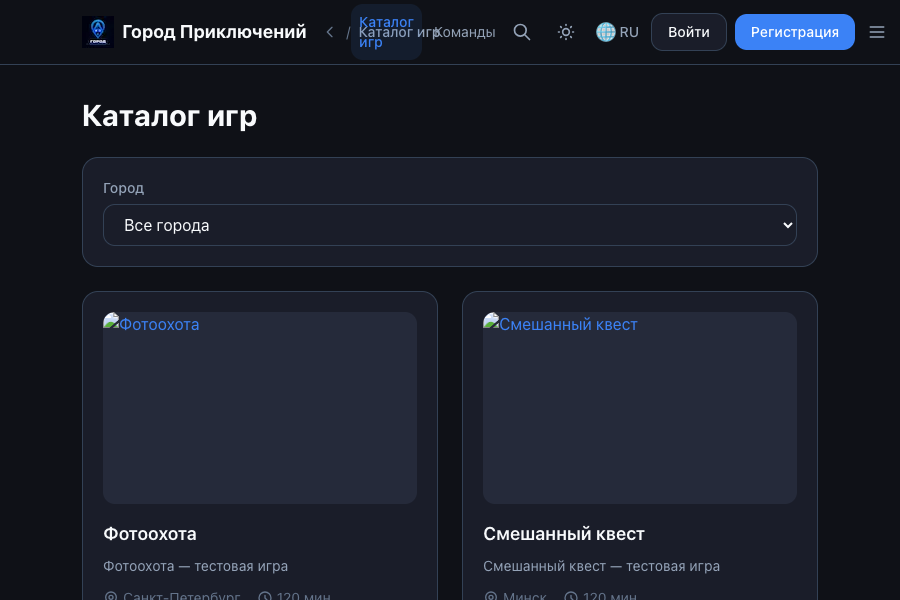
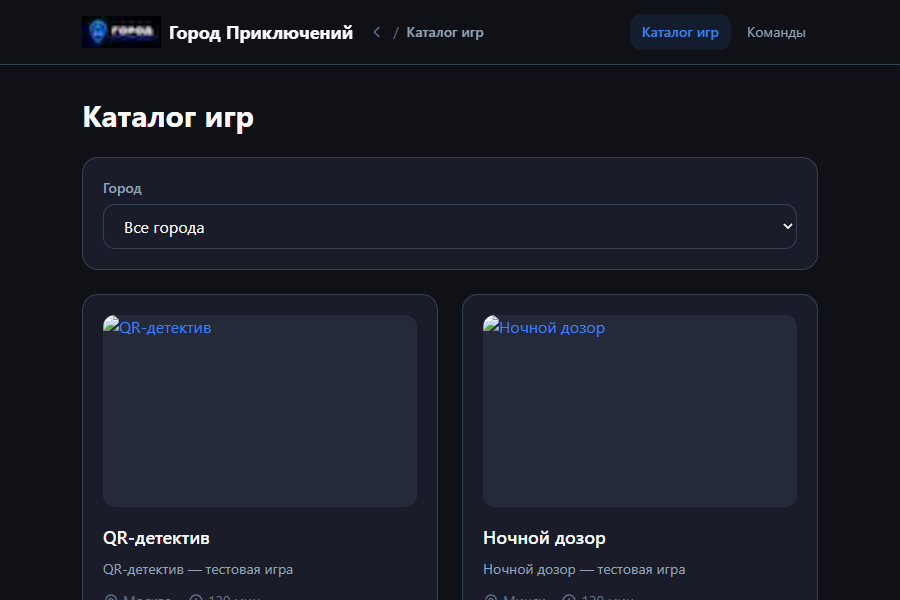
fix(editor): исправлен drag блоков в React Flow v11

diff --git a/apps/web/src/components/editor-v2/ScenarioEditor.tsx b/apps/web/src/components/editor-v2/ScenarioEditor.tsx
@@ -1,6 +1,7 @@
 'use client';
 
-import { useCallback, useEffect, useMemo, useRef, useState } from 'react';
+import { memo, useCallback, useEffect, useMemo, useRef, useState } from 'react';
+import { shallow } from 'zustand/shallow';
 import ReactFlow, {
   Background,
   Controls,
@@ -37,12 +38,14 @@ import ToolbarSettingsModal from './ToolbarSettingsModal';
 import { autoSaveManager } from '@/lib/editor-store/autosave';
 
 // ==================== Node Types for React Flow ====================
+// Определяем на уровне модуля для стабильной ссылки (важно для React Flow)
 const nodeTypes = {
   location: EditorNodeComponent,
   quiz: EditorNodeComponent,
   dialogue: EditorNodeComponent,
   conference: EditorNodeComponent,
   rpg: EditorNodeComponent,
+  slide: EditorNodeComponent,
   custom: EditorNodeComponent,
 };
 
@@ -140,8 +143,10 @@ const CustomEdge = ({
   );
 };
 
+const CustomEdgeMemo = memo(CustomEdge);
+
 const edgeTypes = {
-  default: CustomEdge,
+  default: CustomEdgeMemo,
 };
 
 // ==================== Props ====================
@@ -168,6 +173,10 @@ function ScenarioEditorInner({
   onToggleHeader,
 }: ScenarioEditorV2Props) {
   const reactFlowInstance = useReactFlow();
+  // Используем селекторы для стабильных ссылок — это критически важно для useNodesState/useEdgesState,
+  // чтобы они не сбрасывали позиции узлов при ререндерах, вызванных изменением других полей стора
+  const storeScenes = useEditorStore((s) => s.scenes, shallow);
+  const storeEdges = useEditorStore((s) => s.edges, shallow);
   const store = useEditorStore();
   const initialized = useRef(false);
   const [showClearConfirm, setShowClearConfirm] = useState(false);
@@ -207,21 +216,23 @@ function ScenarioEditorInner({
   }, []);
 
   // Convert Scene[] to React Flow Node[]
+  // Используем storeScenes (с shallow-сравнением) вместо store.scenes,
+  // чтобы useMemo возвращал стабильную ссылку и useNodesState не сбрасывал позиции узлов
   const rfNodes: Node[] = useMemo(
     () =>
-      store.scenes.map((s) => ({
+      storeScenes.map((s) => ({
         id: s.id,
         type: s.type,
         position: s.position,
         data: s,
       })),
-    [store.scenes]
+    [storeScenes]
   );
 
   // Convert Edge[] to React Flow Edge[]
   const rfEdges: Edge[] = useMemo(
     () =>
-      store.edges.map((e) => ({
+      storeEdges.map((e) => ({
         id: e.id,
         source: e.source,
         target: e.target,
@@ -229,42 +240,14 @@ function ScenarioEditorInner({
         animated: e.animated,
         data: e.data,
       })),
-    [store.edges]
+    [storeEdges]
   );
 
-  // Используем useNodesState/useEdgesState для управления узлами в React Flow
-  // Инициализируем один раз — React Flow сам управляет состоянием узлов
+  // Управление узлами и рёбрами через useNodesState/useEdgesState
   const [nodes, setNodes, onNodesChange] = useNodesState(rfNodes);
   const [edges, setEdges, onEdgesChange] = useEdgesState(rfEdges);
 
-  // Синхронизация store -> React Flow ТОЛЬКО при загрузке нового сценария
-  // (когда flowKey меняется). При добавлении/удалении сцен через onDrop/onPaletteClick
-  // мы добавляем/удаляем узлы напрямую через setNodes.
-  // При drag позиция сохраняется в store через onNodeDragStop.
-  const scenesKey = useMemo(
-    () => store.scenes.map(s => `${s.id}:${s.type}`).join(','),
-    [store.scenes]
-  );
-  useEffect(() => {
-    console.log('[Sync] scenesKey changed:', scenesKey, 'nodes:', rfNodes.length);
-    setNodes(rfNodes);
-    // eslint-disable-next-line react-hooks/exhaustive-deps
-  }, [scenesKey, setNodes]);
 
-  const edgesKey = useMemo(
-    () => store.edges.map(e => `${e.id}:${e.source}:${e.target}`).join(','),
-    [store.edges]
-  );
-  useEffect(() => {
-    console.log('[Sync] edgesKey changed:', edgesKey, 'edges:', rfEdges.length);
-    setEdges(rfEdges);
-    // eslint-disable-next-line react-hooks/exhaustive-deps
-  }, [edgesKey, setEdges]);
-
-  // Auto-validate on scenes/edges change
-  useEffect(() => {
-    store.validate();
-  }, [store.scenes, store.edges]);
 
   // AutoSave
   useEffect(() => {
@@ -372,8 +355,9 @@ function ScenarioEditorInner({
 
       // Добавляем в store
       store.addScene(block.type, position, block.label);
-      // Добавляем в React Flow напрямую (useEffect сбросит позиции при drag)
-      const newScene = store.scenes[store.scenes.length - 1];
+      // Добавляем в React Flow напрямую
+      // Используем getState() для получения актуального состояния после addScene
+      const newScene = useEditorStore.getState().scenes.slice(-1)[0];
       if (newScene) {
         setNodes((nds) => [
           ...nds,
@@ -398,9 +382,13 @@ function ScenarioEditorInner({
         x: 200 + (existingCount % 3) * 320,
         y: 100 + Math.floor(existingCount / 3) * 200,
       };
+      // Создаём сцену в store
       store.addScene(block.type, position, block.label);
-      // Добавляем в React Flow напрямую
-      const newScene = store.scenes[store.scenes.length - 1];
+      // После addScene Zustand обновил внутреннее состояние, но store.scenes
+      // в этом замыкании всё ещё указывает на старый массив.
+      // Используем useEditorStore.getState() для получения актуального состояния.
+      const currentScenes = useEditorStore.getState().scenes;
+      const newScene = currentScenes[currentScenes.length - 1];
       if (newScene) {
         setNodes((nds) => [
           ...nds,
@@ -426,9 +414,25 @@ function ScenarioEditorInner({
     (params: Connection) => {
       if (params.source && params.target) {
         store.addEdge(params.source, params.target);
+        // Добавляем ребро в React Flow напрямую, аналогично onPaletteClick
+        const currentEdges = useEditorStore.getState().edges;
+        const newEdge = currentEdges[currentEdges.length - 1];
+        if (newEdge) {
+          setEdges((eds) => [
+            ...eds,
+            {
+              id: newEdge.id,
+              source: newEdge.source,
+              target: newEdge.target,
+              type: 'default',
+              animated: newEdge.animated,
+              data: newEdge.data,
+            },
+          ]);
+        }
       }
     },
-    [store]
+    [store, setEdges]
   );
 
   // Selection + Live Preview
@@ -447,6 +451,13 @@ function ScenarioEditorInner({
   );
 
   // Сохраняем финальную позицию узла после завершения drag
+  const onNodeDragStart = useCallback(
+    (_: React.MouseEvent, node: Node) => {
+      // Drag начался — React Flow сам обновляет позицию узла в useNodesState
+    },
+    []
+  );
+
   const onNodeDragStop = useCallback(
     (_: React.MouseEvent, node: Node) => {
       store.moveScene(node.id, node.position);
@@ -828,31 +839,19 @@ function ScenarioEditorInner({
           )}
 
           <ReactFlow
-            key={store.flowKey}
             nodes={nodes}
             edges={edges}
             nodesDraggable={true}
             elementsSelectable={true}
             nodeDragThreshold={1}
-            connectOnClick={true}
+            connectOnClick={false}
             connectionMode={ConnectionMode.Strict}
-            // Handle имеет isConnectable={false} — соединения только через onConnect
-            onNodesChange={(changes) => {
-              onNodesChange(changes);
-              // НЕ синхронизируем позицию здесь — финальная позиция в onNodeDragStop
-            }}
-            onEdgesChange={(changes) => {
-              onEdgesChange(changes);
-              // Sync edge deletions
-              for (const change of changes) {
-                if (change.type === 'remove' && change.id) {
-                  store.removeEdge(change.id);
-                }
-              }
-            }}
+            onNodesChange={onNodesChange}
+            onEdgesChange={onEdgesChange}
             onConnect={onConnect}
             onNodeClick={onNodeClick}
             onNodeDoubleClick={onNodeDoubleClick}
+            onNodeDragStart={onNodeDragStart}
             onNodeDragStop={onNodeDragStop}
             onEdgeClick={onEdgeClick}
             onPaneClick={onPaneClick}
@@ -864,6 +863,9 @@ function ScenarioEditorInner({
             className="bg-background"
             deleteKeyCode={null}
             selectionMode={SelectionMode.Partial}
+            panOnDrag={[1, 2]}
+            panOnScroll={false}
+            zoomOnScroll={true}
           >
             <Background color="#888" gap={20} />
             <Controls />

diff --git a/apps/web/src/app/debug/editor-test/page.tsx b/apps/web/src/app/debug/editor-test/page.tsx
@@ -1,0 +1,20 @@
+'use client';
+
+import dynamic from 'next/dynamic';
+
+const ScenarioEditorV2 = dynamic(
+  () => import('@/components/editor-v2/ScenarioEditor'),
+  { ssr: false }
+);
+
+export default function DebugEditorTestPage() {
+  return (
+    <div className="min-h-screen bg-background">
+      <div className="bg-background border-b border-border px-4 py-2 flex items-center justify-between">
+        <span className="text-sm font-semibold text-text-primary">🧪 Debug: Editor Test</span>
+        <span className="text-xs text-text-secondary">React Flow v11.11.4</span>
+      </div>
+      <ScenarioEditorV2 />
+    </div>
+  );
+}

diff --git a/apps/web/src/components/editor-v2/EditorNode.tsx b/apps/web/src/components/editor-v2/EditorNode.tsx
@@ -40,7 +40,6 @@ const EditorNodeComponent = ({ id, data, selected }: NodeProps<Scene>) => {
     <div
       className={`
         px-4 py-3 rounded-lg shadow-md border-2 min-w-[200px] max-w-[300px]
-        transition-all
         ${selected
           ? 'border-primary ring-2 ring-primary/30'
           : hasErrors
@@ -49,7 +48,7 @@ const EditorNodeComponent = ({ id, data, selected }: NodeProps<Scene>) => {
               ? 'border-yellow-500 ring-2 ring-yellow-500/30'
               : 'border-border'
         }
-        bg-background hover:shadow-lg transition-shadow
+        bg-background hover:shadow-lg
       `}
     >
       {/* Header */}
@@ -102,23 +101,18 @@ const EditorNodeComponent = ({ id, data, selected }: NodeProps<Scene>) => {
         </div>
       )}
 
-      {/* Handle для соединений — isConnectable={false} чтобы не перехватывать drag узла */}
-      {/* Соединения создаются через onConnect (клик на source + клик на target) с connectOnClick={true} */}
-      {/* Handle для соединений — isConnectable={false} чтобы не перехватывать drag узла */}
-      {/* Соединения создаются через onConnect (клик на source + клик на target) с connectOnClick={true} */}
+      {/* Handle для соединений */}
       <Handle
         type="target"
         position={Position.Top}
         id={`${id}-target`}
         className="!bg-primary !w-2 !h-2 !border !border-white"
-        isConnectable={false}
       />
       <Handle
         type="source"
         position={Position.Bottom}
         id={`${id}-source`}
         className="!bg-primary !w-2 !h-2 !border !border-white"
-        isConnectable={false}
       />
     </div>
   );

diff --git a/apps/web/next.config.js b/apps/web/next.config.js
@@ -2,6 +2,8 @@
 const nextConfig = {
   reactStrictMode: true,
   images: {
+    dangerouslyAllowSVG: true,
+    contentDispositionType: 'attachment',
     remotePatterns: [
       {
         protocol: 'https',
@@ -25,6 +27,12 @@ const nextConfig = {
         protocol: 'http',
         hostname: 'localhost',
         port: '3000',
+        pathname: '/**',
+      },
+      {
+        protocol: 'https',
+        hostname: 'placehold.co',
+        port: '',
         pathname: '/**',
       },
     ],

diff --git a/apps/web/src/styles/globals.css b/apps/web/src/styles/globals.css
@@ -130,14 +130,14 @@ textarea:focus {
 @keyframes node-appear {
   from {
     opacity: 0;
-    transform: translateY(12px) scale(0.95);
   }
   to {
     opacity: 1;
-    transform: translateY(0) scale(1);
   }
 }
 
+/* React Flow использует CSS transform для drag-позиционирования узлов,
+   поэтому анимация не должна применять transform, чтобы не конфликтовать */
 .react-flow__node {
   animation: node-appear 0.3s ease-out both;
 }
@@ -212,14 +212,11 @@ textarea:focus {
 /* Glow effect for selected nodes */
 .react-flow__node.selected > div {
   box-shadow: 0 0 20px rgba(59, 130, 246, 0.3), 0 0 40px rgba(59, 130, 246, 0.1);
-  transition: box-shadow 0.3s ease;
 }
 
 /* Hover lift for nodes */
 .react-flow__node:hover > div {
-  transform: translateY(-2px);
   box-shadow: 0 8px 25px rgba(0, 0, 0, 0.3);
-  transition: all 0.2s ease;
 }
 
 /* Smooth edge hover */

diff --git a/apps/web/src/components/ui/GameCard.tsx b/apps/web/src/components/ui/GameCard.tsx
@@ -16,6 +16,7 @@ export default function GameCard({ game }: GameCardProps) {
   const [modalOpen, setModalOpen] = useState(false);
   const coverImage = game.imageUrl || DEFAULT_LOGO;
   const hasCustomImage = !!game.imageUrl;
+  const isPlaceholder = hasCustomImage && game.imageUrl?.includes('placehold.co');
 
   const formatDate = (dateString: string) => {
     const date = new Date(dateString);
@@ -55,8 +56,8 @@ export default function GameCard({ game }: GameCardProps) {
               alt={game.title}
               fill
               className="object-cover group-hover:scale-105 transition-transform duration-300 pointer-events-none"
-              quality={hasCustomImage ? 85 : 100}
-              unoptimized={!hasCustomImage}
+              quality={hasCustomImage && !isPlaceholder ? 85 : 100}
+              unoptimized={!hasCustomImage || isPlaceholder}
             />
             {!hasCustomImage && (
               <div className="absolute inset-0 bg-gradient-to-br from-primary/20 to-transparent" />